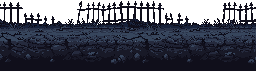
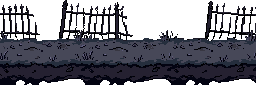
Floor tile v3 (wrought-iron fence), one 256x85 tile for desktop + portrait (sw v43)

diff --git a/css/glanceStrip.css b/css/glanceStrip.css
@@ -63,21 +63,21 @@ body.glance-strip .graveyard-scene {
     display: none;
 }
 
-/* FLOOR band (PixelLab tileable art, 2026-10-13): Assets/scene/strip-floor.png is
-   64x36 (the 127x72 floor-tile.png, halved), tiled sideways at 1:1 with crisp
-   pixels. It starts right of the church (56px); its TOP edge is where lane 0's
-   feet (marker bottom) land: top = sky + marker. Lane 1 feet sit mid-floor, lane 2
-   feet at the bottom minus --strip-pad. The sky gradient on #gameCanvas shows
-   through the tile's transparent top rows. KEEP IN SYNC: height 36px ==
-   (--strip-lanes - 1) * --strip-pitch + --strip-pad. */
+/* FLOOR band (PixelLab tileable art, 2026-10-13): Assets/scene/floor-tile.png, the SAME
+   256x85 tile as desktop, drawn 1:1 (crisp pixels, repeat-x) from the church edge
+   (left 56px). Tile rows: 0-38 wrought-iron fence, 39-63 lit gray ground, 64-81 dark
+   soil. The band is positioned so the ground's top edge sits 2px above lane 0's feet
+   (marker bottom = --strip-sky + --strip-marker): top = feet - 2 - 39. The fence rises
+   into the sky BEHIND the lane-0 markers; the soil runs off the bottom (the canvas
+   clips it). KEEP IN SYNC: 41px = 39 fence rows + 2px. */
 body.glance-strip #gameCanvas::before {
     content: "";
     position: absolute;
     left: 56px;
     right: 0;
-    top: calc(var(--strip-sky) + var(--strip-marker));
+    top: calc(var(--strip-sky) + var(--strip-marker) - 41px);
     bottom: 0;
-    background: url("../Assets/scene/strip-floor.png") repeat-x 0 0 / 128px 36px;
+    background: url("../Assets/scene/floor-tile.png") repeat-x 0 0 / 256px 85px;
     image-rendering: pixelated;
 }
 

diff --git a/js/config.js b/js/config.js
@@ -369,9 +369,9 @@ const CONFIG = {
     // lane feet = floor top + TOP_PAD, front lane feet = canvas bottom - BOTTOM_PAD (so
     // nothing floats above the floor or touches the canvas edge); middle lane in between.
     // The *_FRAC pair is the fallback (and what tests pass explicitly).
-    GROUND_FLOOR_HEIGHT: 72,
-    GROUND_FLOOR_FEET_TOP_PAD: 28, // tile rows 0-~10 are sky/grass tufts; the walkable dirt band is ~rows 10-45, so back-lane feet go mid-dirt (2026-10-13, Jeremy: top lane floated)
-    GROUND_FLOOR_FEET_BOTTOM_PAD: 6,
+    GROUND_FLOOR_HEIGHT: 85,
+    GROUND_FLOOR_FEET_TOP_PAD: 44, // tile rows 0-~10 are sky/grass tufts; the walkable dirt band is ~rows 10-45, so back-lane feet go mid-dirt (2026-10-13, Jeremy: top lane floated)
+    GROUND_FLOOR_FEET_BOTTOM_PAD: 4,
     GROUND_LANE_FEET_TOP_FRAC: 0.72,
     GROUND_LANE_FEET_BOTTOM_FRAC: 0.99,
 

diff --git a/css/gameCanvas.css b/css/gameCanvas.css
@@ -262,12 +262,12 @@
     z-index: -1;
     top: auto;
     bottom: 0;
-    /* 2026-10-13: PixelLab floor art. Fixed 72px = floor-tile.png's height (the canvas is
-       ~298px on desktop, so this is ~24% as before); tiled 1:1, pixelated. The old SVG
+    /* 2026-10-13: PixelLab floor art. Fixed 85px = floor-tile.png's height (wrought-iron fence
+       + gray ground band + soil; the canvas is ~298px on desktop); tiled 1:1, pixelated. The old SVG
        ground (fill/fence/tombstones) is hidden below; the fog ::before still drifts. */
-    height: 72px;
+    height: 85px;
     min-height: 44px;
-    background: url("../Assets/scene/floor-tile.png") repeat-x 0 100% / 256px 72px;
+    background: url("../Assets/scene/floor-tile.png") repeat-x 0 100% / 256px 85px;
     image-rendering: pixelated;
     width: 130%;
     left: -15%;

diff --git a/sw.js b/sw.js
@@ -15,7 +15,7 @@
  * edited CSS/JS) so returning users pick up the update instead of serving a
  * stale cached shell forever — the whole point of a version string here.
  */
-const CACHE_NAME = 'deadline-shell-v42';
+const CACHE_NAME = 'deadline-shell-v43';
 
 const APP_SHELL = [
     './',
@@ -131,8 +131,7 @@ const APP_SHELL = [
     'Assets/Zombies/anim/relationships.png',
     'Assets/Zombies/anim/spirituality.png',
     'Assets/Zombies/anim/other.png',
-    // Portrait glance-strip floor tile (css/glanceStrip.css). NOT scene/_source/.
-    'Assets/scene/strip-floor.png',
+    // Floor tile shared by desktop (css/gameCanvas.css) and the portrait strip (css/glanceStrip.css). NOT strip-floor*.png or scene/_source/.
     'Assets/scene/floor-tile.png',
     'Assets/icons/icon-192.png',
     'Assets/icons/icon-512.png',

diff --git a/docs/ART_STYLE.md b/docs/ART_STYLE.md
@@ -63,4 +63,4 @@ Jeremy generated all 8 zombies + animations in PixelLab (2026-10-12).
 - Rebuild an atlas from `_source/` if Jeremy swaps a take: crop the chosen animation rows, center-pad each to the category's largest cell, stack walk/idle/attack/death.
 - **Rendering (built, Stage 2a):** `js/spriteAnim.js` + `css/enemyAnim.css` — see DECISIONS.md 2026-10-12. Display 1x (tasks/habits), 0.5x (sub-tasks), parents snapped to whole multiples; state (walk/idle/attack) and speed come from existing classes. Atlases are 9 cols x 4 rows; cell size and frame counts per category live in `enemyAnim.css` and are checked against the JSONs by `test/spriteAnim.test.js`. Swapping a take: rebuild the atlas, re-run the tests.
 
-- **Portrait strip floor (2026-10-13):** tileable dirt/graveyard ground, dark and low-contrast so the white markers read, tiled 1:1 (`repeat-x`, pixelated). `Assets/scene/floor-tile.png` 256x72 = desktop/landscape ground (`css/gameCanvas.css`); `strip-floor.png` 128x36 (halved) = portrait strip floor (`css/glanceStrip.css`). Originals in `Assets/scene/_source/` (128x128 v1) and `Assets/scene/strip-floor2.png` (256x128 v2, source of the current tiles). Portrait floor height must stay == (lanes-1) x pitch + pad (36px).
+- **Portrait strip floor (2026-10-13):** tileable dirt/graveyard ground, dark and low-contrast so the white markers read, tiled 1:1 (`repeat-x`, pixelated). `Assets/scene/floor-tile.png` 256x85 (wrought-iron fence + gray ground + soil) = the ONE floor tile, used by desktop/landscape (`css/gameCanvas.css`, bottom-anchored 85px band) and the portrait strip (`css/glanceStrip.css`, 1:1, ground top 2px above lane-0 feet). Originals in `Assets/scene/_source/` (128x128 v1) and `Assets/scene/strip-floor2.png` (256x128 v2, source of the current tiles). Desktop lane feet are measured from the tile (`CONFIG.GROUND_FLOOR_*`); portrait uses `top = sky + marker - 41px`.

diff --git a/CLAUDE.md b/CLAUDE.md
@@ -33,7 +33,7 @@ At the end of every session, run `/end-session` (append HANDOFF entry, log decis
 
 - **Modular vanilla JS, no build step.** `index.html` + ~27 core modules in `js/` (new: `listOrder.js`, 2026-10-13) + 17 UI modules in `js/ui/` + 21 CSS files in `css/` (`responsive.css` loads last — order-sensitive). `script.js` (~1,900 lines) is boot/wiring only: deps builders + `window.*` names for inline onclicks. Game state is owned by `js/state.js` (`State.getX`/`State.setX`). Target layout: `docs/ARCHITECTURE.md`.
 - **Persistence:** localStorage `deadline.save`, `SCHEMA_VERSION = 12` (migrations in `js/persistence.js`); settings in `deadline.settings`; Backup & Transfer via `js/exportImport.js`.
-- **PWA:** `manifest.json` + cache-first `sw.js`. BUMP `CACHE_NAME` (currently `deadline-shell-v42`) on ANY shell-file change, and add new assets to its `APP_SHELL` list. Deployed via GitHub Pages from `main`.
+- **PWA:** `manifest.json` + cache-first `sw.js`. BUMP `CACHE_NAME` (currently `deadline-shell-v43`) on ANY shell-file change, and add new assets to its `APP_SHELL` list. Deployed via GitHub Pages from `main`.
 - **Tests:** Jest, ~66 suites / ~1,386 tests in `test/` (`npm test`). Jest never loads `script.js` — boot/wiring regressions only show up in a live browser check.
 - **Progress:** Milestones 0–4 closed; Milestone 5 (live-play polish + visual track V1–V6, see `docs/VISUAL_DESIGN_PLAN.md`) in progress. Next queued items are in the top `sessions/HANDOFF.md` entry.
 - **Art:** animated PixelLab atlases in `Assets/Zombies/anim/` drive walk/idle/attack (P2-GAME-010 Stage 2a, `js/spriteAnim.js` + `css/enemyAnim.css`, built 2026-10-12, pending live check); death animation on completion + scrub pause built in Stage 2b (2026-10-12, live-verified). Static 64×64 PNGs in `Assets/Zombies/` remain as the fallback.

diff --git a/docs/DECISIONS.md b/docs/DECISIONS.md
@@ -4,6 +4,15 @@ Append-only. Newest at top. Format: date — decision — why — alternatives r
 
 ---
 
+## 2026-10-13 -- Floor tile v3 (strip-floor3: wrought-iron fence + gray ground), ONE 256x85 tile for desktop AND portrait
+
+- **Why:** Jeremy didn't like v2; v3 has a wrought-iron fence over a gray ground band and soil. Source `Assets/scene/strip-floor3.png` (256x128, art rows 40-124). Cropped rows 40-124 -> `Assets/scene/floor-tile.png` **256x85** (fence rows 0-38, lit ground 39-63, soil 64-81).
+- **Desktop/landscape:** `.scene-ground` is 85px (`CONFIG.GROUND_FLOOR_HEIGHT` 85), `background-size: 256px 85px`. Lane feet: `GROUND_FLOOR_FEET_TOP_PAD` 44 (just inside the gray ground), `GROUND_FLOOR_FEET_BOTTOM_PAD` 4 -> feet at 44 / 62.5 / 81 of the floor (18.5px apart). Checked live at 1100px with fake sprites.
+- **Portrait:** no longer a separate halved tile. The same 85px tile is drawn 1:1 from the church edge with `top = sky + marker - 41px` (15px), so the ground's top edge is 2px above lane 0's feet; the fence rises into the sky BEHIND the lane-0 markers and the soil runs off the canvas bottom. Strip stays 92px; lanes unchanged. `strip-floor.png` (128x36) is now unused (kept on disk, removed from sw.js).
+- **sw.js v43.** 66 suites, 1400/1400.
+
+---
+
 ## 2026-10-13 -- Wider floor tile (256px; strip-floor2 from PixelLab) replaces the 127px tile; desktop lane pads re-tuned
 
 - **Why:** Jeremy: the 127px tile repeated too close together. PixelLab capped width at 256, so the new art is 256x128 (fence silhouettes over a thin lighter dirt band, art in rows 45-115). Cropped rows 44-116 -> `floor-tile.png` 256x72 (desktop/landscape, flush-bottom) and BOX-halved -> `strip-floor.png` 128x36 (portrait). Original export kept as `Assets/scene/strip-floor2.png` (not in sw.js).
